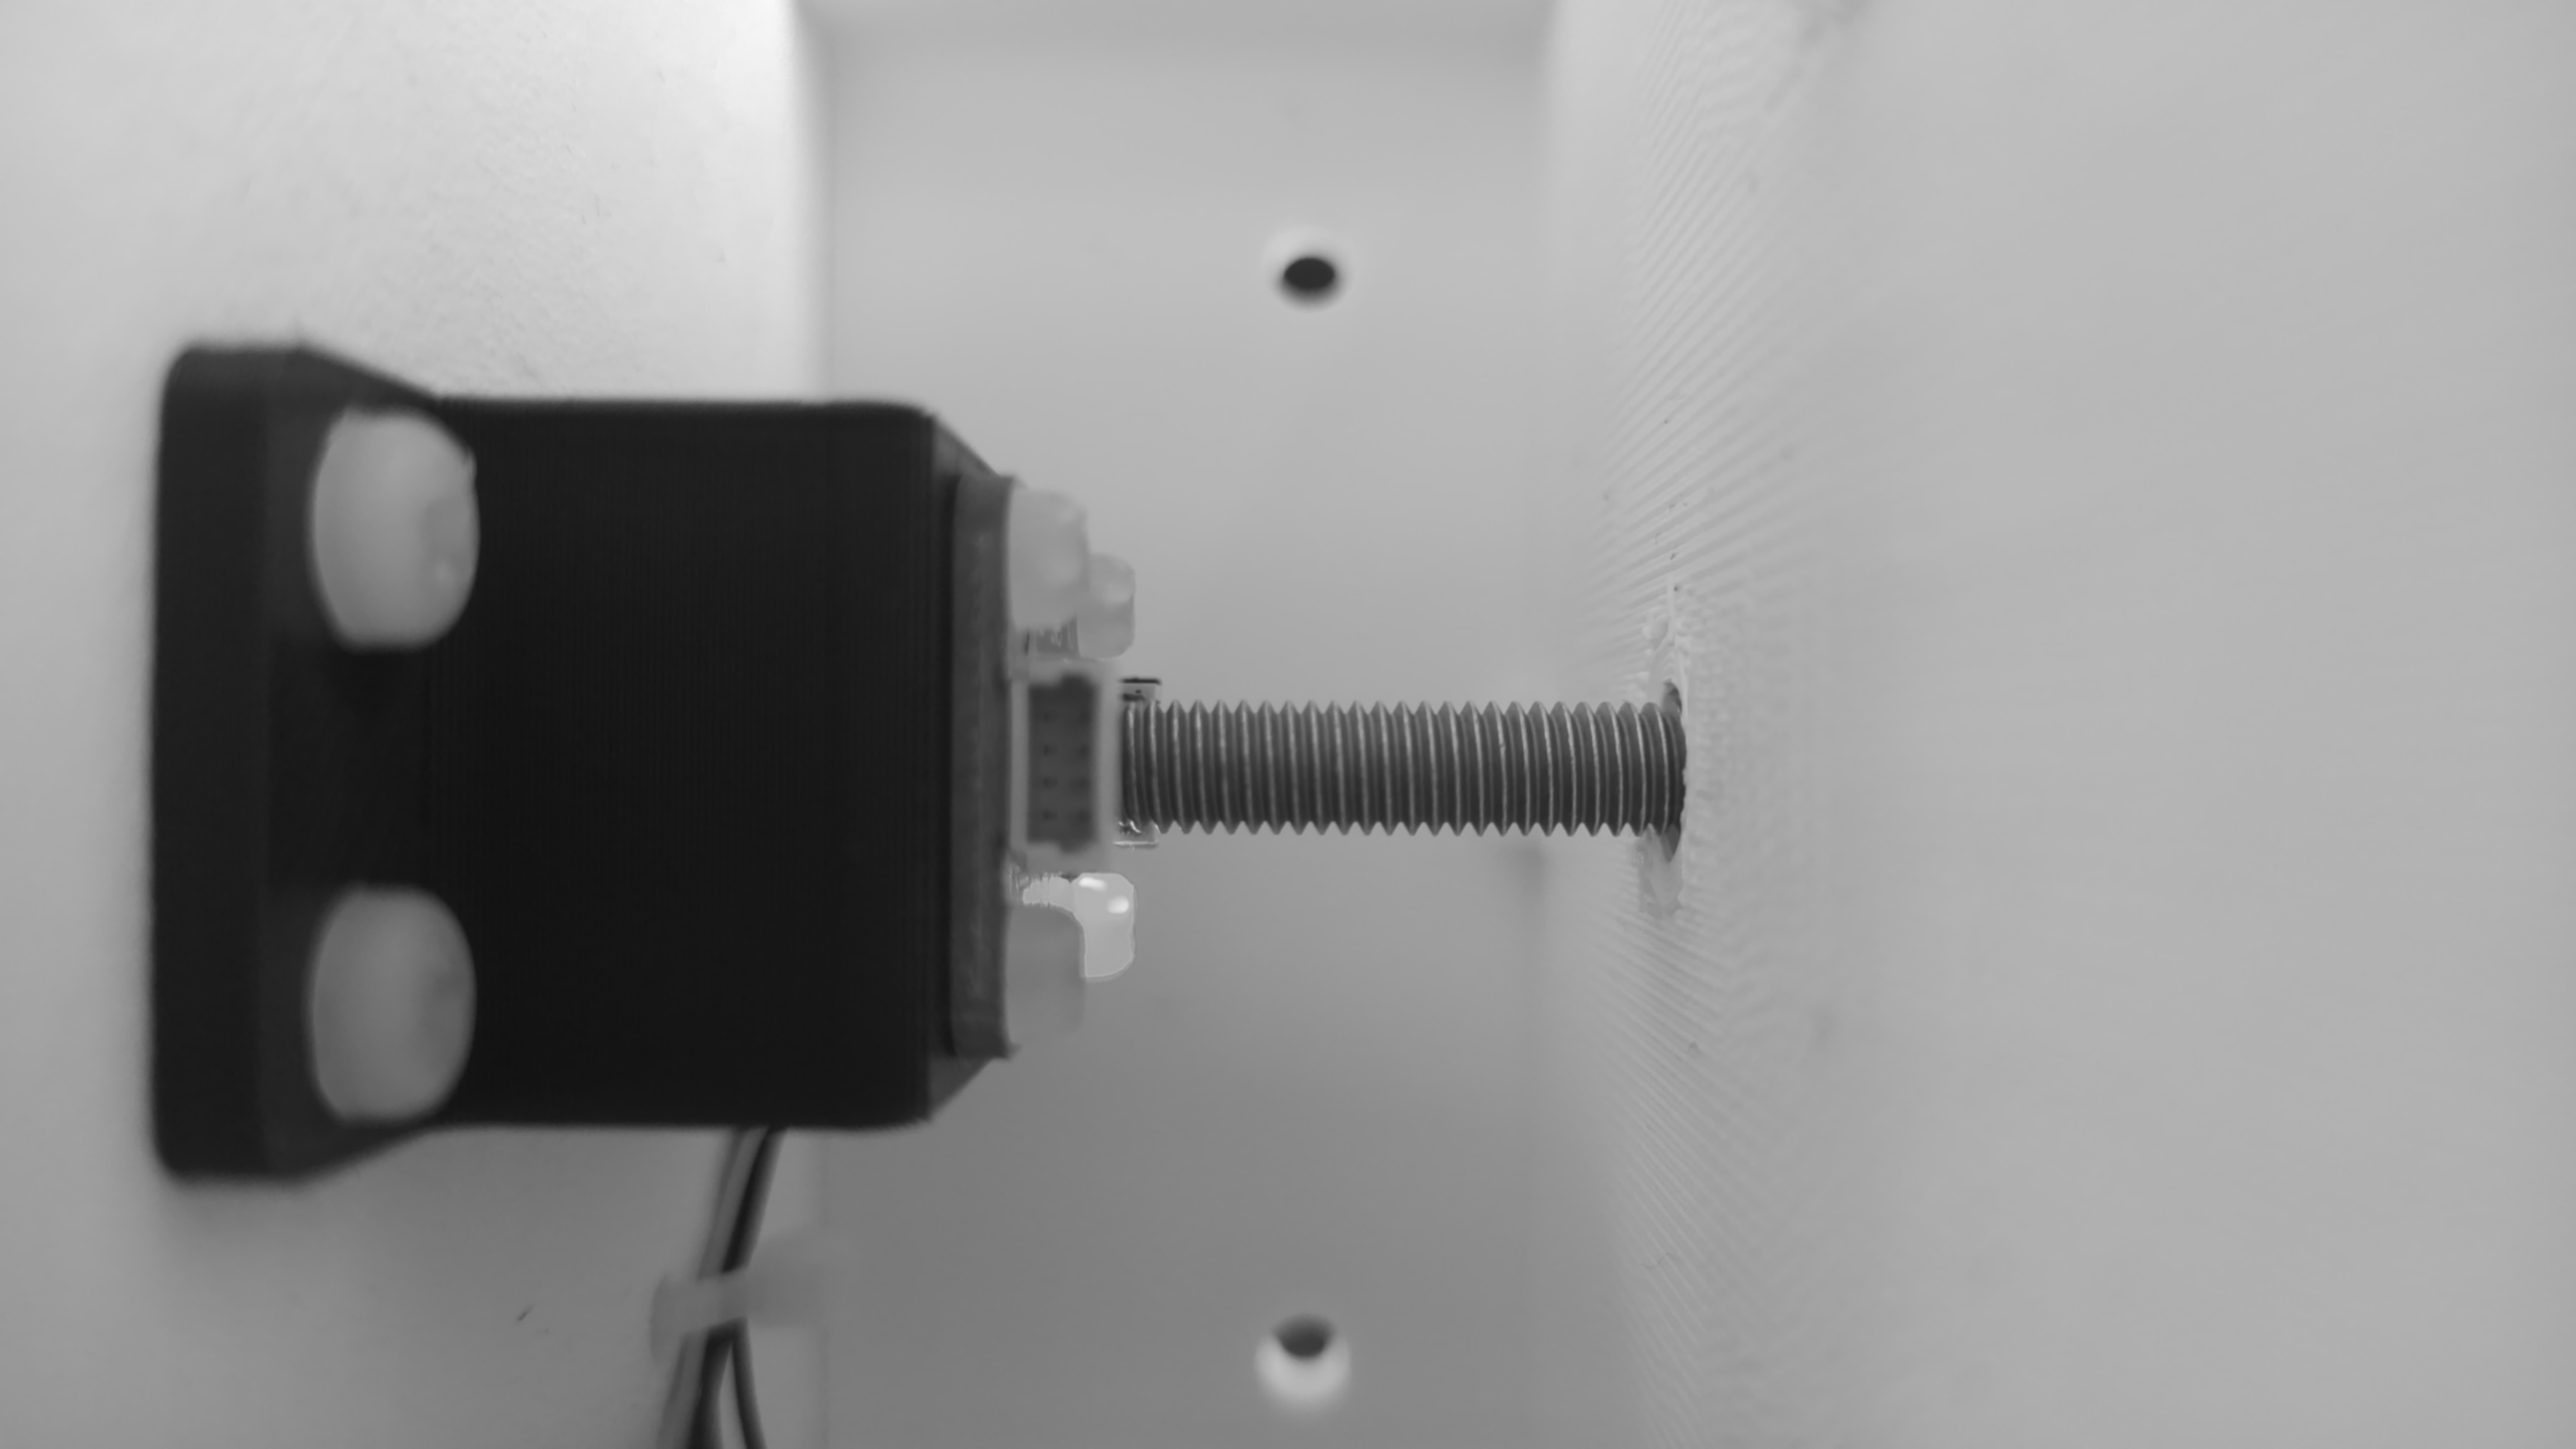
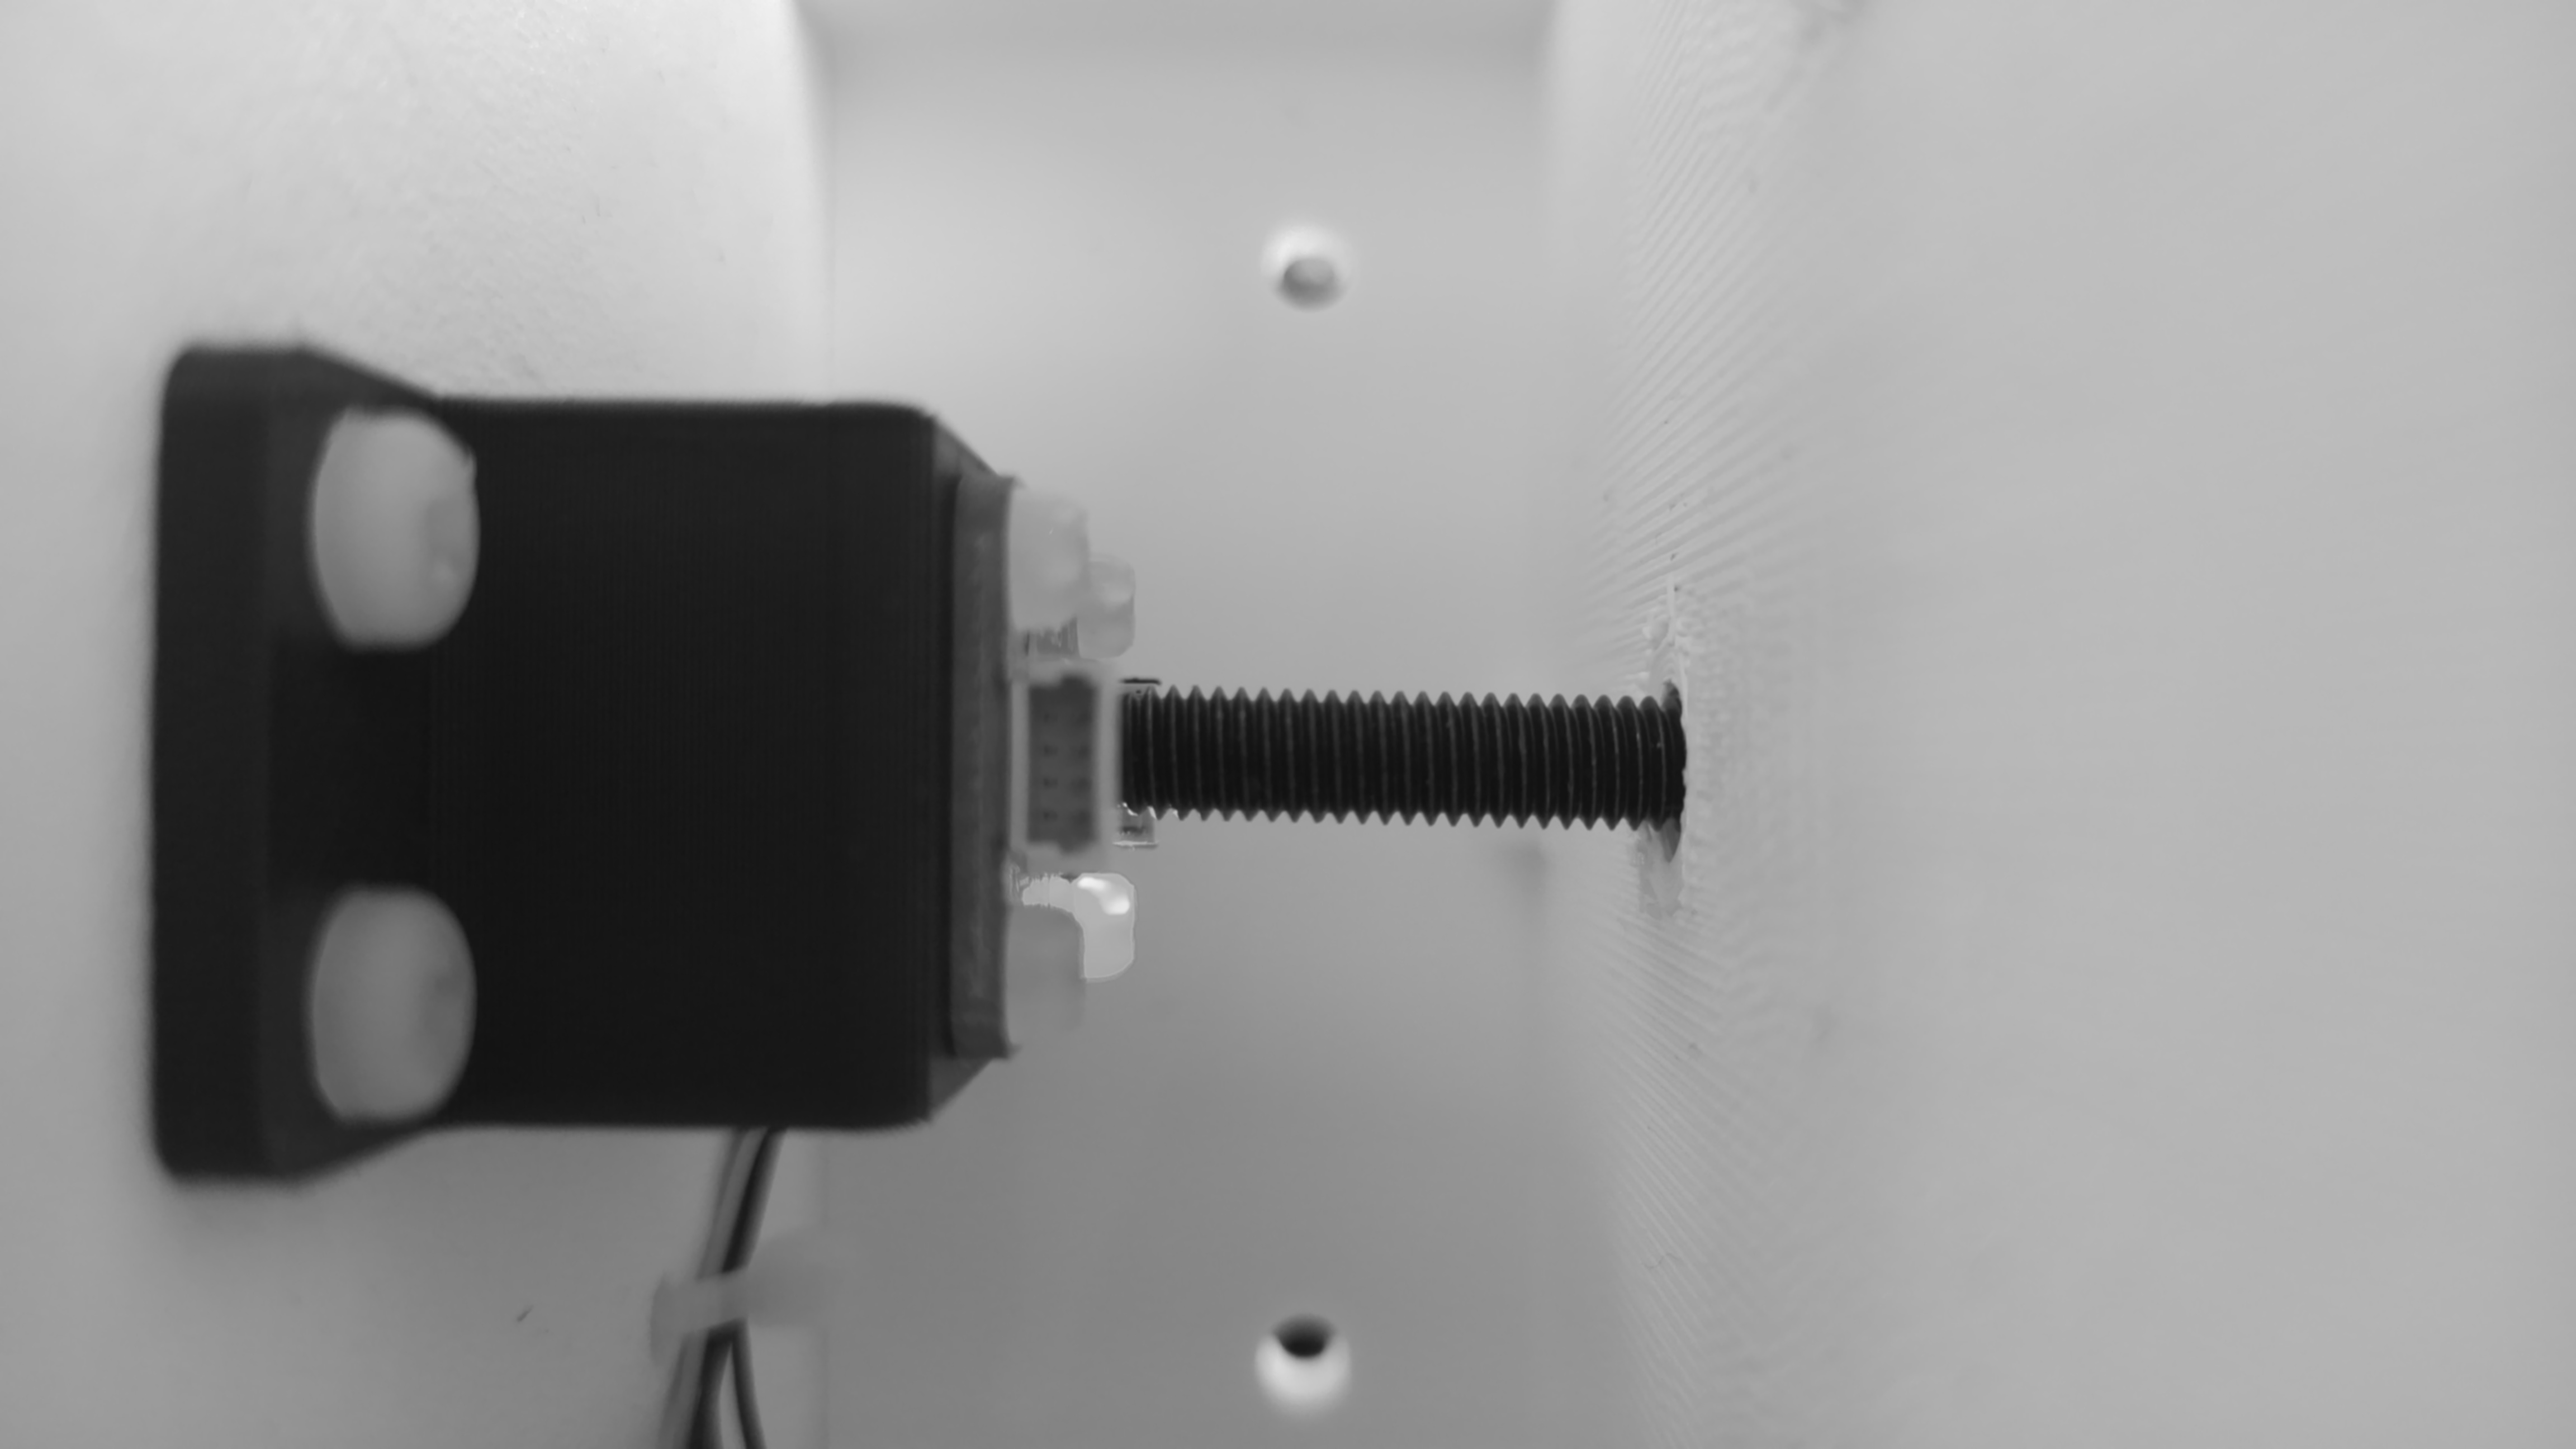
Changed oxide settings

diff --git a/thread_count.py b/thread_count.py
@@ -5,7 +5,7 @@ import numpy as np
 import imutils
 import cv2 as cv
 
-img = cv.imread('Photos/CBDS_Pics/idealSide.jpg')
+img = cv.imread('Photos/CBDS_Pics/oxideSide.jpg')
 
 if img is None:
     print("Image failed to load")
@@ -33,8 +33,8 @@ y2 = 1400
 # y1 = 1480
 # y2 = 1500
 
-lowerThresh = 50
-upperThresh = 30
+lowerThresh = 10 # ideal(50), oxide(10)
+upperThresh = 30 # 
 
 print(img.shape)
 roi = img[y1:y2, x1:x2] #Region of Interest image[y1:y2, x1:x2]
@@ -43,17 +43,9 @@ roi = img[y1:y2, x1:x2] #Region of Interest image[y1:y2, x1:x2]
 gray = cv.cvtColor(img, cv.COLOR_BGR2GRAY)
 gray = cv.GaussianBlur(gray, (7, 7), 0)
 
-# edged = cv.Canny(gray, 50, 100)
-# edged = cv.dilate(edged, None, iterations=6)
-# edged = cv.erode(edged, None, iterations=1)
-
-# cnts = cv.findContours(edged.copy(), cv.RETR_EXTERNAL, cv.CHAIN_APPROX_SIMPLE)
-
 preview = img.copy()
 cv.rectangle(preview, (x1,y1),(x2,y2), (0,255,0), 5) #(x1,y1),(x2,y2) measured from the top left
 cv.imshow("ROI Location", preview)
-
-
 
 #cv.imshow('Gray', gray)
 cv.imwrite("Photos/output/Gray.jpg", gray)
@@ -63,7 +55,7 @@ canny[y1:y2, x1:x2] = cv.Canny(gray.copy()[y1:y2, x1:x2], lowerThresh, lowerThre
 cv.imshow('Canny Edges', canny)
 cv.imwrite("Photos/output/Canny Edges Shaft.jpg", canny)
 
-canny = cv.dilate(canny, None, iterations=5)
+canny = cv.dilate(canny, None, iterations=3) # ideal(5), oxide(3)
 canny = cv.erode(canny, None, iterations=1)
 
 
@@ -80,7 +72,7 @@ threads = []
 for contour in contours:
     area = cv.contourArea(contour)
 
-    if 500 < area :
+    if 800 < area : # ideal(500), oxide(800)
         print(area)
         threads.append(contour)
         cv.drawContours(idealBoltPhoto, [contour], -1, (0, 255, 0), 2)
